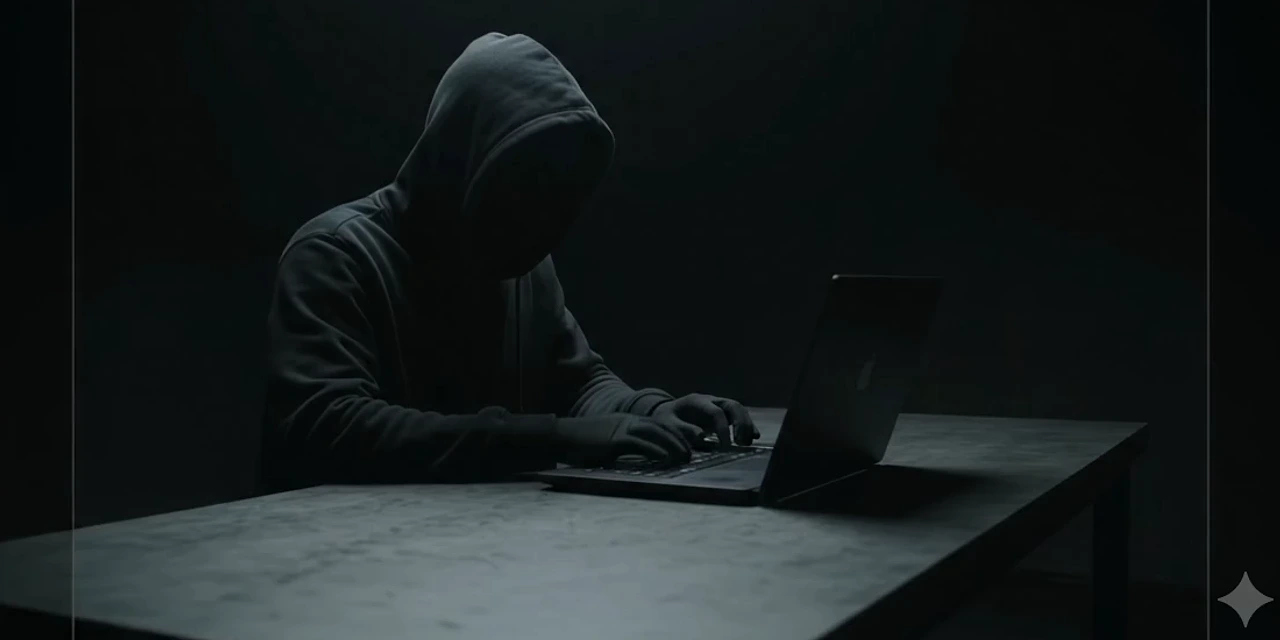
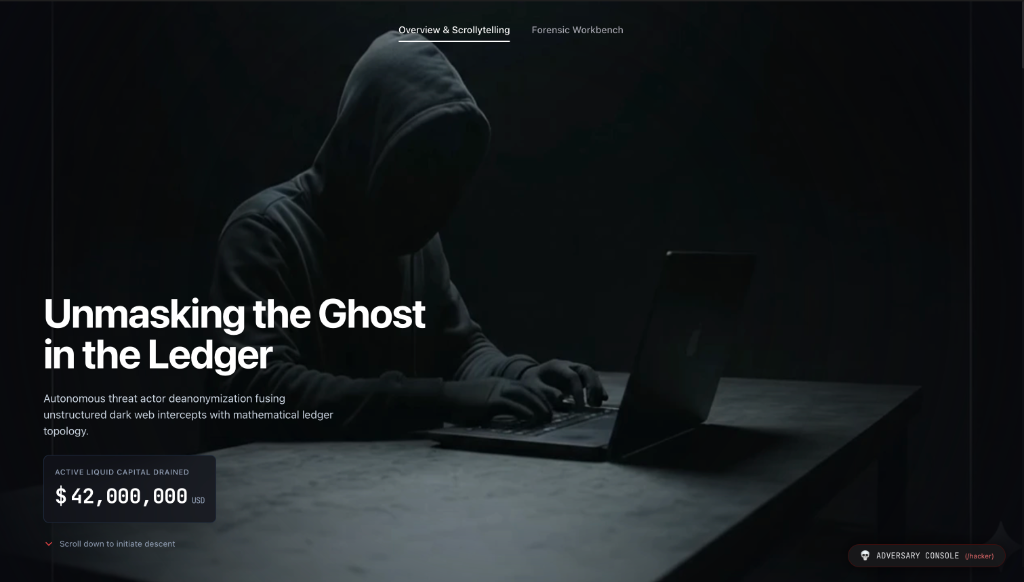
docs: replace frame 1 with authentic UI screenshot in README

diff --git a/README.md b/README.md
@@ -27,7 +27,7 @@
   <img src="assets/screenshot.png" width="100%" alt="Parallax Forensic War Room & 3D Scrollytelling" style="border-radius: 12px; box-shadow: 0 10px 40px rgba(0,0,0,0.8);" />
 </p>
 <p align="center">
-  <em>Figure 1: Parallax Forensic War Room — Hardware-Accelerated 300-Frame Scrollytelling & Multi-Signal Intelligence Fusion.</em>
+  <em>Figure 1: Parallax Forensic War Room — Live Cyberpunk UI with Hardware-Accelerated 3D Scrollytelling, $42M Threat Counter, and Adversary Console Launcher.</em>
 </p>
 
 ---
